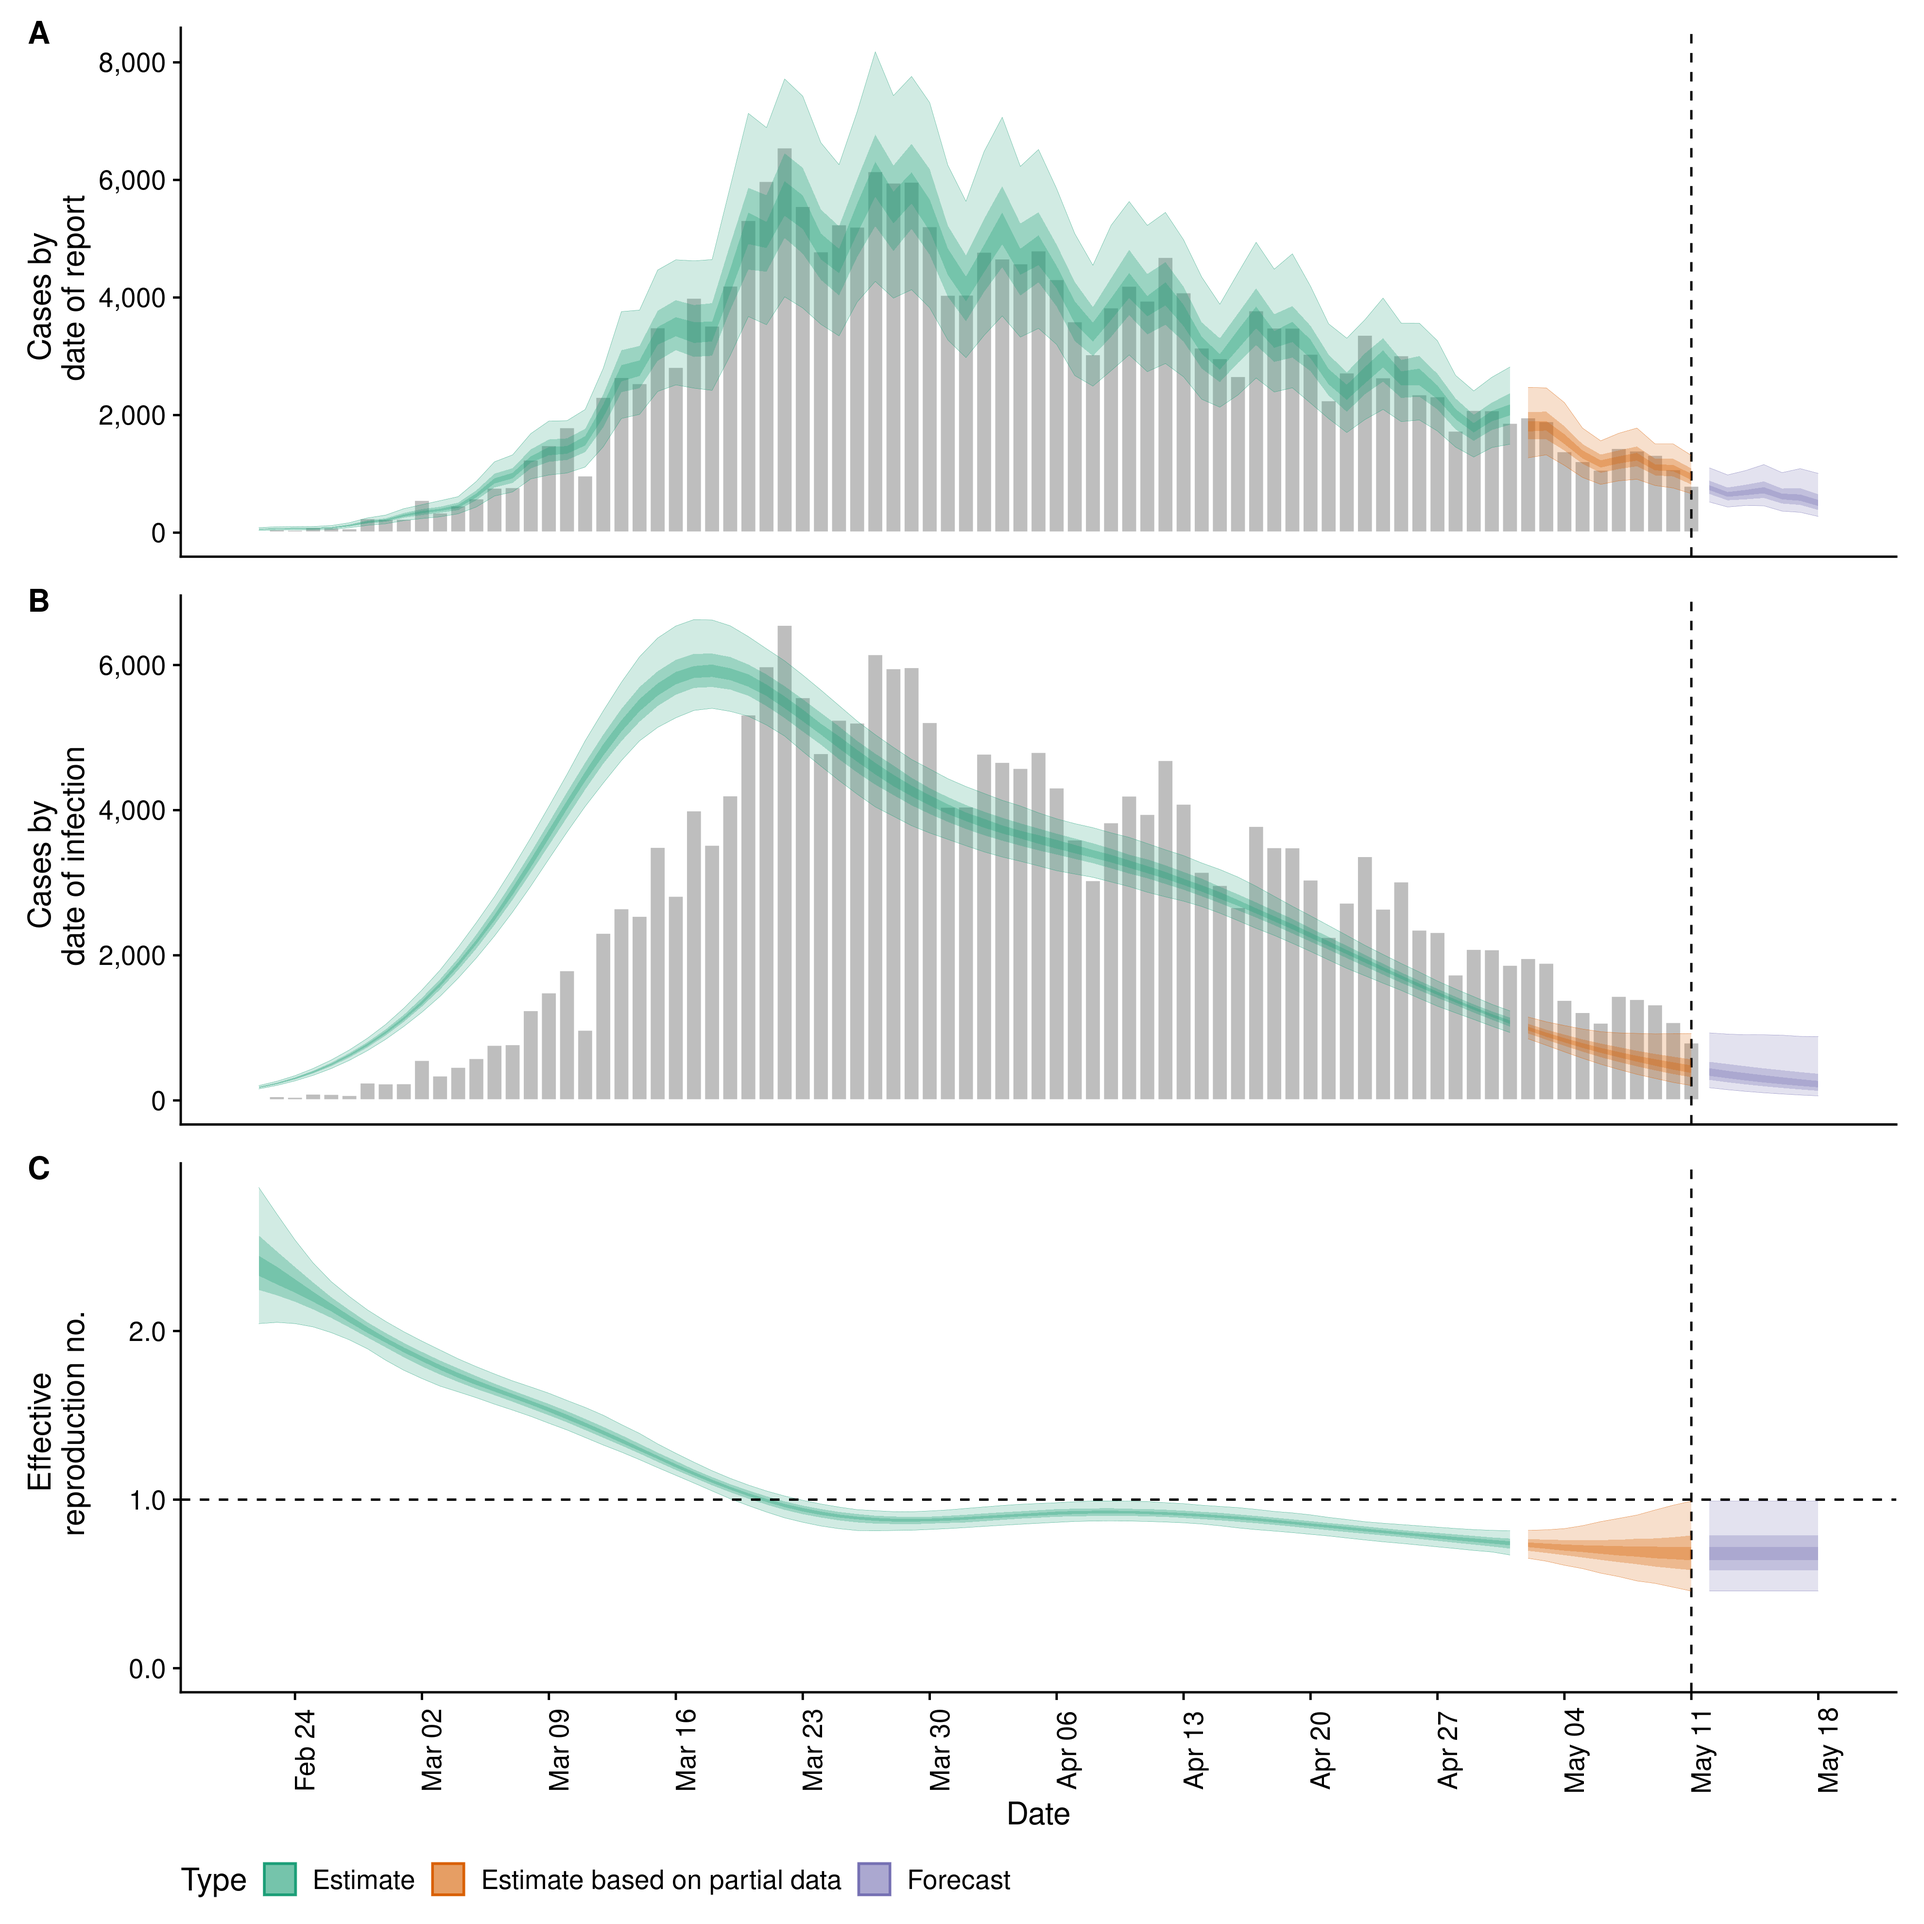
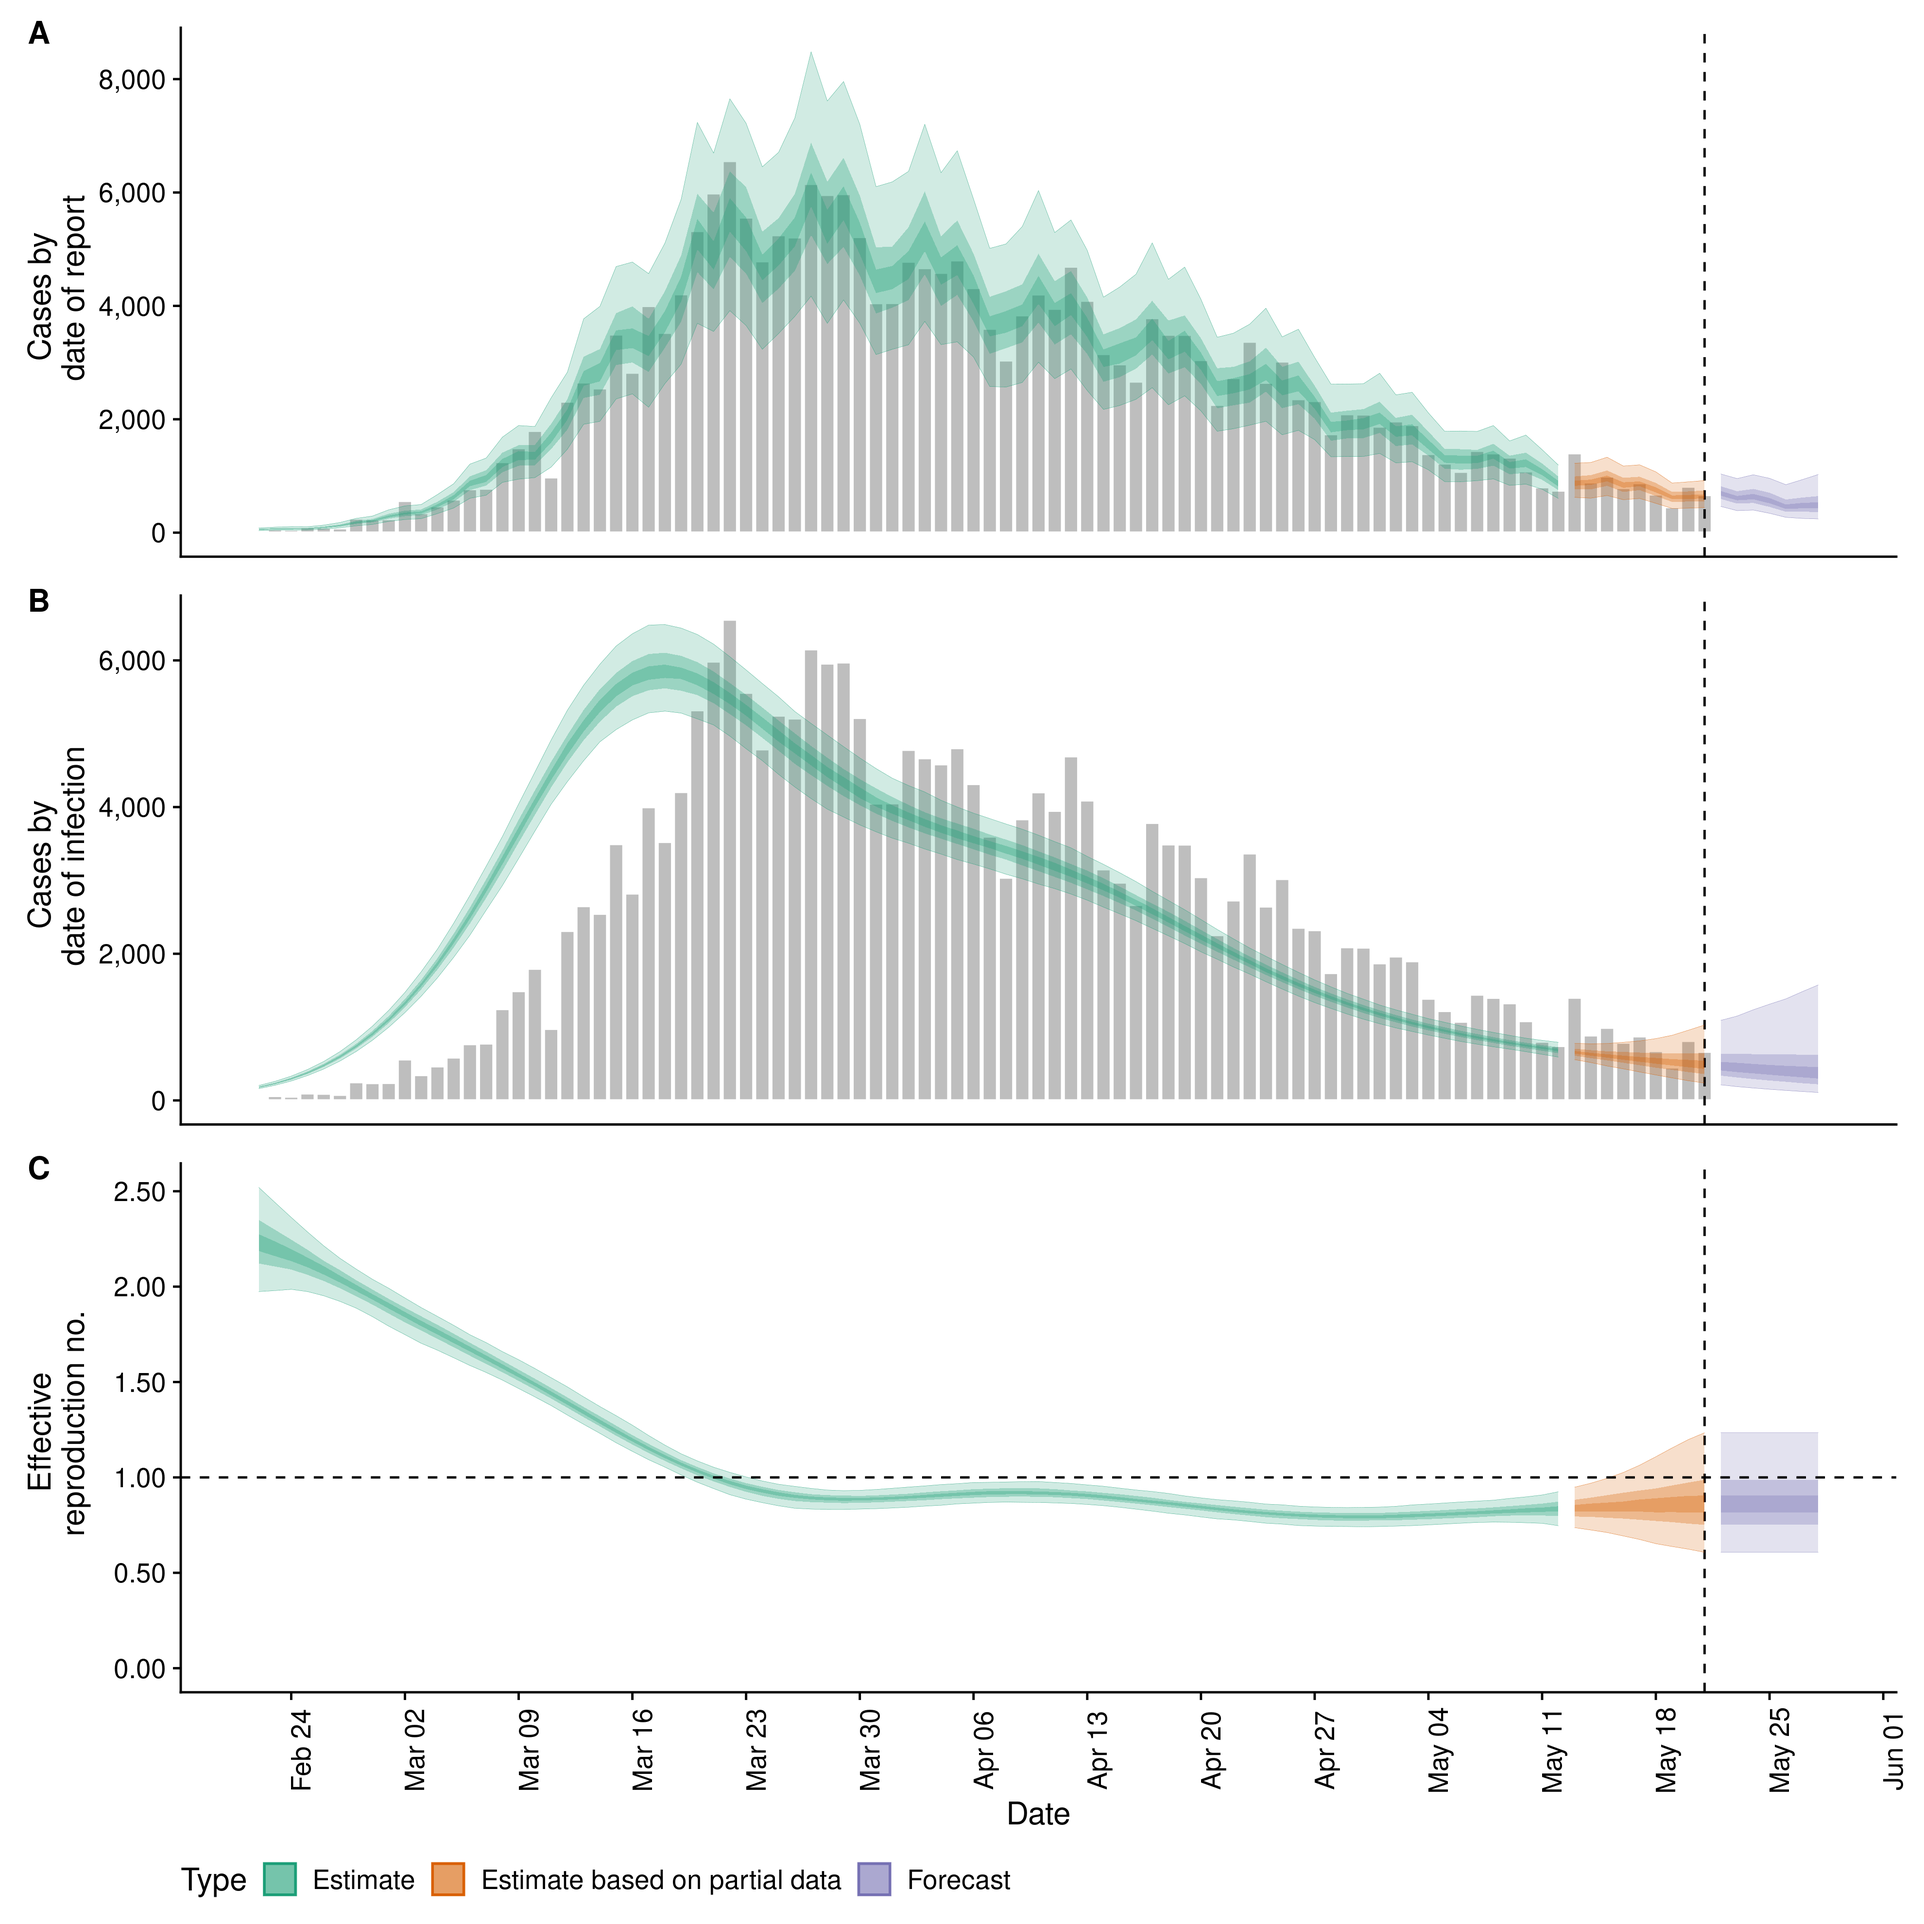
update readme

diff --git a/README.md b/README.md
@@ -113,10 +113,10 @@ In the following section we give an overview of the simple use case for
 `epinow` and `regional_epinow`.
 [`estimate_infections`](https://epiforecasts.io/EpiNow2/reference/estimate_infections.html)
 can be use on its own to infer the underlying infection case curve from
-reported cases and estimate Rt. Estimating
-the underlying infection case curve via back-calculation (and then calculating Rt) is
-substantially less computationally demanding than generating using default settings but 
-may result in less reliable estimates of Rt. For more details on
+reported cases and estimate Rt. Estimating the underlying infection case
+curve via back-calculation (and then calculating Rt) is substantially
+less computationally demanding than generating using default settings
+but may result in less reliable estimates of Rt. For more details on
 using each function see the [function
 documentation](https://epiforecasts.io/EpiNow2/reference/index.html).
 
@@ -162,7 +162,7 @@ companion packages (see documentation for an example).
 Load example case data from `{EpiNow2}`.
 
 ``` r
-reported_cases <- example_confirmed[1:80]
+reported_cases <- example_confirmed[1:90]
 head(reported_cases)
 #>          date confirm
 #> 1: 2020-02-22      14
@@ -184,10 +184,12 @@ may be needed*. See fitting progress by setting `verbose = TRUE`.
 ``` r
 estimates <- epinow(reported_cases = reported_cases, 
                     generation_time = generation_time,
-                    delays = list(incubation_period, reporting_delay))
+                    delays = list(incubation_period, reporting_delay),
+                    rt_prior = list(mean = 2, sd = 0.25))
 names(estimates)
 #> [1] "estimates"                "estimated_reported_cases"
-#> [3] "summary"                  "plots"
+#> [3] "summary"                  "plots"                   
+#> [5] "timing"
 ```
 
 Both summary measures and posterior samples are returned for all
@@ -195,42 +197,34 @@ parameters in an easily explored format. Summarised measures can be
 accessed using `summary` for ease.
 
 ``` r
-head(summary(estimates, type = "estimates"))
-#>          date variable strat     type   median     mean         sd lower_90
-#> 1: 2020-02-22        R  <NA> estimate 1.786782 1.787457 0.13522192 1.550465
-#> 2: 2020-02-23        R  <NA> estimate 1.797566 1.797380 0.10692184 1.609453
-#> 3: 2020-02-24        R  <NA> estimate 1.808140 1.807251 0.08308303 1.670462
-#> 4: 2020-02-25        R  <NA> estimate 1.814874 1.816374 0.06518351 1.714157
-#> 5: 2020-02-26        R  <NA> estimate 1.821462 1.823993 0.05480635 1.735223
-#> 6: 2020-02-27        R  <NA> estimate 1.828548 1.829316 0.05208623 1.745749
-#>    lower_50 lower_20 upper_20 upper_50 upper_90
-#> 1: 1.704961 1.752871 1.823508 1.879213 2.008546
-#> 2: 1.730812 1.771682 1.826039 1.872769 1.967753
-#> 3: 1.752713 1.785954 1.828918 1.861805 1.945575
-#> 4: 1.772790 1.799900 1.832135 1.858523 1.926977
-#> 5: 1.786083 1.808577 1.837048 1.861203 1.914268
-#> 6: 1.792769 1.816007 1.840706 1.862948 1.913533
+head(summary(estimates, output = "estimates"))
+#>                                  measure              estimate
+#> 1: New confirmed cases by infection date     474 (237 -- 1028)
+#> 2:        Expected change in daily cases                Unsure
+#> 3:            Effective reproduction no.      0.9 (0.6 -- 1.2)
+#> 4:                        Rate of growth -0.04 (-0.11 -- 0.06)
+#> 5:          Doubling/halving time (days)    -17 (10.9 -- -6.1)
 ```
 
 Reported cases are returned separately in order to ease reporting of
 forecasts and model evaluation.
 
 ``` r
-head(summary(estimates, type = "estimated_reported_cases"))
+head(summary(estimates, output = "estimated_reported_cases"))
 #>          date  type median    mean       sd lower_90 lower_50 lower_20 upper_20
-#> 1: 2020-02-22 gp_rt     42  43.422 13.10770    24.00       34     39.0     46.0
-#> 2: 2020-02-23 gp_rt     64  66.274 18.23325    39.00       53     61.0     69.0
-#> 3: 2020-02-24 gp_rt     81  82.887 22.69434    48.00       67     76.0     87.0
-#> 4: 2020-02-25 gp_rt     88  90.976 26.47365    52.00       72     82.0     94.0
-#> 5: 2020-02-26 gp_rt    104 106.637 30.30693    59.95       86     97.6    112.0
-#> 6: 2020-02-27 gp_rt    152 154.337 44.13086    93.00      122    142.0    161.4
+#> 1: 2020-02-22 gp_rt     56  57.066 14.91718    35.95       46       52       60
+#> 2: 2020-02-23 gp_rt     67  68.603 16.42776    45.00       57       63       70
+#> 3: 2020-02-24 gp_rt     70  71.507 18.45135    45.00       58       66       74
+#> 4: 2020-02-25 gp_rt     70  72.309 17.80580    46.00       60       66       75
+#> 5: 2020-02-26 gp_rt     92  93.997 22.15283    61.00       78       87       97
+#> 6: 2020-02-27 gp_rt    123 126.598 29.66072    85.00      105      116      132
 #>    upper_50 upper_90
-#> 1:       52    67.00
-#> 2:       78    97.00
-#> 3:       97   122.00
-#> 4:      106   138.05
-#> 5:      125   159.00
-#> 6:      178   238.00
+#> 1:    67.00    82.00
+#> 2:    79.00    97.00
+#> 3:    83.00   106.00
+#> 4:    82.00   105.00
+#> 5:   107.25   133.00
+#> 6:   144.00   179.05
 ```
 
 A summary table is returned for rapidly understanding the results and
@@ -242,11 +236,11 @@ knitr::kable(summary(estimates))
 
 | measure                               | estimate              |
 | :------------------------------------ | :-------------------- |
-| New confirmed cases by infection date | 466 (184 – 1098)      |
-| Expected change in daily cases        | Likely decreasing     |
-| Effective reproduction no.            | 0.7 (0.4 – 1.1)       |
-| Rate of growth                        | \-0.09 (-0.18 – 0.02) |
-| Doubling/halving time (days)          | \-7.9 (42.2 – -4)     |
+| New confirmed cases by infection date | 474 (237 – 1028)      |
+| Expected change in daily cases        | Unsure                |
+| Effective reproduction no.            | 0.9 (0.6 – 1.2)       |
+| Rate of growth                        | \-0.04 (-0.11 – 0.06) |
+| Doubling/halving time (days)          | \-17 (10.9 – -6.1)    |
 
 A range of plots are returned (with the single summary plot shown
 below). These plots can also be generated using a `plot` method.
@@ -284,21 +278,22 @@ in parallel depending on the settings used).
 ``` r
 estimates <- regional_epinow(reported_cases = reported_cases, 
                              generation_time = generation_time,
-                             delays = list(incubation_period, reporting_delay))
-#> INFO [2020-10-28 18:16:02] Producing following optional outputs: regions, summary, samples, plots, latest
-#> INFO [2020-10-28 18:16:02] Reporting estimates using data up to: 2020-05-11
-#> INFO [2020-10-28 18:16:02] No target directory specified so returning output
-#> INFO [2020-10-28 18:16:02] Producing estimates for: testland, realland
-#> INFO [2020-10-28 18:16:02] Regions excluded: none
-#> INFO [2020-10-28 18:16:02] Showing progress using progressr. Modify this behaviour using progressr::handlers.
-#> INFO [2020-10-28 18:33:24] Completed estimates for: testland
-#> INFO [2020-10-28 20:22:38] Completed estimates for: realland
-#> INFO [2020-10-28 20:22:38] Completed regional estimates
-#> INFO [2020-10-28 20:22:38] Regions with estimates: 2
-#> INFO [2020-10-28 20:22:38] Regions with runtime errors: 0
-#> INFO [2020-10-28 20:22:38] Producing summary
-#> INFO [2020-10-28 20:22:38] No summary directory specified so returning summary output
-#> INFO [2020-10-28 20:22:39] No target directory specified so returning timings
+                             delays = list(incubation_period, reporting_delay),
+                             rt_prior = list(mean = 2, sd = 0.25))
+#> INFO [2020-11-08 13:57:55] Producing following optional outputs: regions, summary, samples, plots, latest
+#> INFO [2020-11-08 13:57:55] Reporting estimates using data up to: 2020-05-21
+#> INFO [2020-11-08 13:57:55] No target directory specified so returning output
+#> INFO [2020-11-08 13:57:55] Producing estimates for: testland, realland
+#> INFO [2020-11-08 13:57:55] Regions excluded: none
+#> INFO [2020-11-08 13:57:55] Showing progress using progressr. Modify this behaviour using progressr::handlers.
+#> INFO [2020-11-08 14:08:33] Completed estimates for: testland
+#> INFO [2020-11-08 14:20:47] Completed estimates for: realland
+#> INFO [2020-11-08 14:20:47] Completed regional estimates
+#> INFO [2020-11-08 14:20:47] Regions with estimates: 2
+#> INFO [2020-11-08 14:20:47] Regions with runtime errors: 0
+#> INFO [2020-11-08 14:20:47] Producing summary
+#> INFO [2020-11-08 14:20:47] No summary directory specified so returning summary output
+#> INFO [2020-11-08 14:20:47] No target directory specified so returning timings
 ```
 
 Results from each region are stored in a `regional` list with across
@@ -321,8 +316,8 @@ knitr::kable(estimates$summary$summarised_results$table)
 
 | Region   | New confirmed cases by infection date | Expected change in daily cases | Effective reproduction no. | Rate of growth        | Doubling/halving time (days) |
 | :------- | :------------------------------------ | :----------------------------- | :------------------------- | :-------------------- | :--------------------------- |
-| realland | 589 (227 – 663600)                    | Decreasing                     | 0.8 (0.5 – 1)              | \-0.06 (-0.15 – 0)    | \-11.4 (-1873.9 – -4.5)      |
-| testland | 476 (195 – 1116)                      | Likely decreasing              | 0.7 (0.4 – 1.1)            | \-0.08 (-0.17 – 0.02) | \-8.3 (43 – -4.1)            |
+| realland | 480 (238 – 965)                       | Unsure                         | 0.9 (0.6 – 1.2)            | \-0.04 (-0.11 – 0.05) | \-18 (14.8 – -6.1)           |
+| testland | 485 (249 – 1019)                      | Unsure                         | 0.9 (0.6 – 1.2)            | \-0.04 (-0.11 – 0.06) | \-18.1 (11.2 – -6.2)         |
 
 A range of plots are again returned (with the single summary plot shown
 below).
